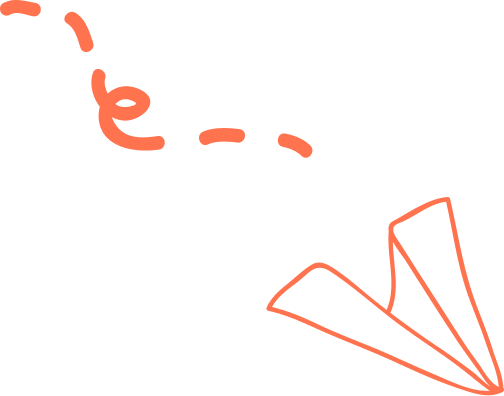
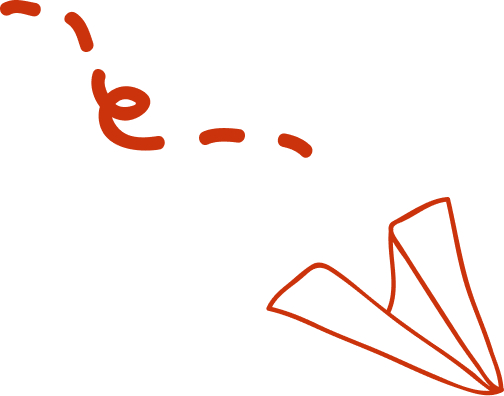
adding style changes to portfoilo site

diff --git a/my-portfolio/src/dist/scss/AboutMe.scss b/my-portfolio/src/dist/scss/AboutMe.scss
@@ -18,7 +18,7 @@
 }
 .Heading2 {
     align-self: baseline;
-    font-family: Antonio;
+    font-family: $firstletterofheading;
     font-style: normal;
     font-weight: 300;
     font-size: 2.3rem;
@@ -176,11 +176,9 @@ opacity: 1;
     flex-direction: column;
 }
 .jorge-img{
-    width: 17rem;
-    border-radius: 17px;
-    margin-bottom: -39px;
-      -webkit-filter: invert(100%); /* Safari/Chrome */
-    filter: grayscale(.2);
+     width: 15rem;
+    /* border-radius: 17px; */
+    margin-bottom: 0rem;
 }
 .aboutme-whoiam{
      margin-top: 3.7rem;
@@ -191,21 +189,24 @@ opacity: 1;
     padding: 1rem;
     border: 1px solid #cb330c;
     width: 17rem;
-    filter: drop-shadow(0.35rem 0.35rem 0.4rem rgba(124, 120, 120, 0.5));
     border-radius: 9px;
+        background-image: url('../../assets/Images/trail.jpg');
+        background-size: 5rem;
+    background-repeat: no-repeat;
+    background-position: bottom;
 
 }
-.aboutme-whoiam:before {
-       content: "";
-    border: 1px solid #cb330c;
-    width: 18.7rem;
-    position: absolute;
-    height: 30.5rem;
-    z-index: 1;
-    top: 0.5rem;
-    left: -0.5rem;
-    border-radius: 8px;
-}
+// .aboutme-whoiam:before {
+//        content: "";
+//     border: 1px solid #cb330c;
+//     width: 18.7rem;
+//     position: absolute;
+//     height: 30.5rem;
+//     z-index: 1;
+//     top: 0.5rem;
+//     left: -0.5rem;
+//     border-radius: 8px;
+// }
 /// Tech 
 .tech{
     display: flex;
@@ -239,11 +240,23 @@ width: 12%;
     width: 15rem;
 }
 .aboutme-whoiam{
-    padding: 1rem 0 0;
+    padding: 1rem;
     margin-top: 4rem;
     line-height: 1.5rem;
     order: 2;
+        width: 30rem;
    
+}
+.aboutme-whoiam:before {
+    content: "";
+    border: 1px solid #cb330c;
+    width: 33.6rem;
+    position: absolute;
+    height: 16.5rem;
+    z-index: 1;
+    top: 0.2rem;
+    left: -0.9rem;
+    border-radius: 8px;
 }
 .aboutme-tech{
         width: 73%;

diff --git a/my-portfolio/src/Sections/ContactSection.js b/my-portfolio/src/Sections/ContactSection.js
@@ -1,6 +1,7 @@
 import MyForm from "../components/Myform.js";
+import paperPlane from "../assets/Images/paperplanewithtrail.jpg"
 
-import React, { useEffect } from "react";
+import React, { useState,useEffect } from "react";
 import { useAnimation, motion } from "framer-motion";
 import { useInView } from "react-intersection-observer";
 const ContactSection = () => {
@@ -9,7 +10,7 @@ const ContactSection = () => {
   const [ref, inView] = useInView({
     threshold: 0.9,
   });
-
+const [message , setMessage] = useState(false);
   useEffect(() => {
     if (inView) {
       controls.start("visible");
@@ -43,7 +44,12 @@ const ContactSection = () => {
           Leave a message and I'll get back to you as soon as I can. Looking
           forward to hearing from you.
         </p>
-        <MyForm />
+
+        {message ? (
+          <MyForm />
+        ) : (
+          <img className="message-plane" alt="paper plane" src={paperPlane} />
+        )}
       </div>
     </motion.div>
   );

diff --git a/my-portfolio/src/dist/scss/Variables.scss b/my-portfolio/src/dist/scss/Variables.scss
@@ -1,5 +1,5 @@
 @import url("https://fonts.googleapis.com/css2?family=Inter:wght@200;300;400;500&display=swap");
-
+@import url("https://fonts.googleapis.com/css2?family=Satisfy&display=swap");
 // directional
 @mixin flexCenter {
   display: flex;
@@ -14,9 +14,10 @@ $font-size-project-mobile: 13px;
 //all heading color
 $heading:#212120;
 
+$firstletterofheading: "Satisfy", cursive;
 $subheading:#242424;
 $text:#242424;
-$specialtext : #ff734f ; 
+$specialtext : #cb330c ; 
 $subtext:#242424;
 
 $color-links: white;

diff --git a/my-portfolio/src/Sections/ProjectSection.js b/my-portfolio/src/Sections/ProjectSection.js
@@ -59,7 +59,7 @@ const ProjectSection = () => {
       id="project"
     >
       <h1 className="heading4" data-aos="fade-left">
-        Projects
+        <span className="firstletterofheading">P</span>rojects
       </h1>
 
       <div className="project-des-heading">
@@ -85,7 +85,6 @@ const ProjectSection = () => {
       </div>
 
       <motion.div className="project-broad">
-      
         {projectJson.PlanetFactSite.map((project, i) => (
           <Project {...project} key={uuidv4()} />
         ))}

diff --git a/my-portfolio/src/dist/scss/Form.scss b/my-portfolio/src/dist/scss/Form.scss
@@ -12,7 +12,7 @@
 
 .heading5 {
     align-self: baseline;
-    font-family: Antonio;
+    font-family:$firstletterofheading;
     font-style: normal;
     font-weight: 300;
     font-size: 2rem;
@@ -35,7 +35,13 @@
 margin-bottom: 2rem;
     display: flex;
     flex-direction: column;
-    align-content: center;}
+    align-content: center;
+        align-items: center;;}
+
+    .message-plane{
+   margin-top: 3rem;
+      width: 10rem;
+    }
 .form {
 
     padding-bottom: 1rem;

diff --git a/my-portfolio/src/dist/scss/Project.scss b/my-portfolio/src/dist/scss/Project.scss
@@ -12,7 +12,7 @@
 /* heading  and describtion */
 .heading4 {
     align-self: baseline;
-    font-family: Antonio;
+    font-family: $firstletterofheading;
     font-style: normal;
     font-weight: 300;
     font-size: 2rem;
@@ -20,6 +20,7 @@
     padding: 8px 0px 0px 16px;
     color: $heading
 }
+
 .project-svg-container-development{
   display: flex;
   flex-direction: column;

diff --git a/my-portfolio/src/dist/scss/Nav.scss b/my-portfolio/src/dist/scss/Nav.scss
@@ -160,14 +160,14 @@ display: none;
     font-weight: 100;
     padding: 8px 16px 8px 0px;
     width: 19rem;
-    color: white;
+    color: $text;
     justify-content: space-between;
     display: flex;
     align-items: center;
     ;
 }
 .navbackground-desktop {
- background: rgba(0, 0, 0, 0.575);
+
   position: fixed;
   display: flex;
   width: 100vw;

diff --git a/my-portfolio/src/components/WhoIAm.jsx b/my-portfolio/src/components/WhoIAm.jsx
@@ -22,10 +22,10 @@ const WhoIAm = () => {
   const item = {
     visible: {
       scale: [0.9, 1],
-      opacity: [0.2, 0.7],
+      // opacity: [0.2, 0.7],
       transition: { duration: 3 },
     },
-    hidden: { opacity: 0.2, scale: 0.9 },
+    // hidden: { opacity: 0.2, scale: 0.9 },
     transition: { duration: 1 },
   };
 
